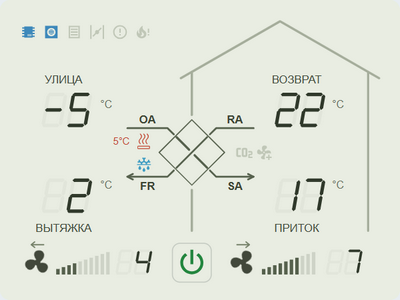
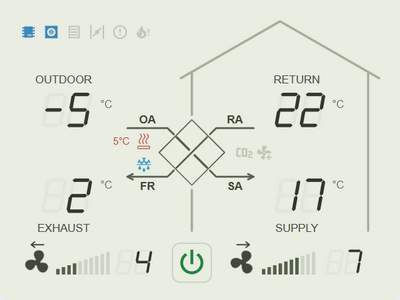
Add dark theme

diff --git a/dist/ha-royal-clima-card.js b/dist/ha-royal-clima-card.js
@@ -157,6 +157,7 @@ class RoyalClimaCard extends HTMLElement {
       .speed-action{cursor:pointer}.speed-action[aria-disabled="true"]{cursor:default}.speed-action rect{pointer-events:all}.speed-action:focus-visible{outline:none}.speed-action:focus-visible rect{stroke:#56614d;stroke-width:2}
       .speed-action circle{display:none;animation:spin 1s linear infinite}.speed-action.pending circle{display:block}
       dialog{border:1px solid var(--divider-color,#ccd3d7);border-radius:16px;padding:24px;max-width:calc(100vw - 32px);width:380px;box-sizing:border-box;background:var(--card-background-color,#fff);color:var(--primary-text-color,#222);font:16px Arial,sans-serif}dialog::backdrop{background:#0006}dialog h3{font-size:20px;margin:0 0 18px;font-weight:500}.speed-choices{display:grid;grid-template-columns:repeat(6,minmax(0,1fr));gap:6px}.speed-choices button{min-height:36px;font-size:14px;padding:0 2px}.speed-choices [data-step-choice="6"]{grid-column:2}.speed-choices [data-step-choice="0"]{font-size:12px}dialog button{font:inherit;min-height:44px;border:1px solid var(--divider-color,#ccd3d7);border-radius:8px;background:var(--secondary-background-color,#f2f5f5);color:inherit;cursor:pointer}dialog button[aria-pressed="true"]{background:var(--primary-color,#0385bd);color:white}dialog button:disabled{opacity:.35;cursor:default}[data-speed-close]{display:block;margin:18px 0 0 auto;padding:0 14px}
+ha-card.dark{background:#19212c}ha-card.dark.compact:not(.transparent){background:#24362a}ha-card.dark.transparent{background:transparent}ha-card.dark .caption,ha-card.dark.airflow .caption{fill:#d5ded8}ha-card.dark .flow-port-label{fill:#9baebf}ha-card.dark [fill="#30392b"]{fill:#d5dfcb}ha-card.dark [stroke="#30392b"]{stroke:#d5dfcb}ha-card.dark [stop-color="#30392b"]{stop-color:#d5dfcb}ha-card.dark [fill="#444e3c"]{fill:#c6d1c2}ha-card.dark [stroke="#444e3c"]{stroke:#c6d1c2}ha-card.dark [stop-color="#444e3c"]{stop-color:#c6d1c2}ha-card.dark [fill="#66705d"]{fill:#9aab94}ha-card.dark [stroke="#66705d"]{stroke:#9aab94}ha-card.dark [stop-color="#66705d"]{stop-color:#9aab94}ha-card.dark [fill="#77836b"]{fill:#b0bdb0}ha-card.dark [stroke="#77836b"]{stroke:#b0bdb0}ha-card.dark [stop-color="#77836b"]{stop-color:#b0bdb0}ha-card.dark [fill="#a6ae9c"]{fill:#697d6c}ha-card.dark [stroke="#a6ae9c"]{stroke:#697d6c}ha-card.dark [stop-color="#a6ae9c"]{stop-color:#697d6c}ha-card.dark [fill="#56614d"]{fill:#b0c3a5}ha-card.dark [stroke="#56614d"]{stroke:#b0c3a5}ha-card.dark [stop-color="#56614d"]{stop-color:#b0c3a5}ha-card.dark [fill="#3b4533"]{fill:#becdb4}ha-card.dark [stroke="#3b4533"]{stroke:#becdb4}ha-card.dark [stop-color="#3b4533"]{stop-color:#becdb4}ha-card.dark [fill="#42483b"]{fill:#bfccbc}ha-card.dark [stroke="#42483b"]{stroke:#bfccbc}ha-card.dark [stop-color="#42483b"]{stop-color:#bfccbc}ha-card.dark [fill="#c2c8bc"]{fill:#77867b}ha-card.dark [stroke="#c2c8bc"]{stroke:#77867b}ha-card.dark [stop-color="#c2c8bc"]{stop-color:#77867b}ha-card.dark [fill="#34465b"]{fill:#d1dfed}ha-card.dark [stroke="#34465b"]{stroke:#d1dfed}ha-card.dark [stop-color="#34465b"]{stop-color:#d1dfed}ha-card.dark [fill="#52677a"]{fill:#9ab0c4}ha-card.dark [stroke="#52677a"]{stroke:#9ab0c4}ha-card.dark [stop-color="#52677a"]{stop-color:#9ab0c4}ha-card.dark [fill="#edf2f7"]{fill:#2b3849}ha-card.dark [stroke="#edf2f7"]{stroke:#2b3849}ha-card.dark [stop-color="#edf2f7"]{stop-color:#2b3849}ha-card.dark [fill="#dce4ed"]{fill:#46566a}ha-card.dark [stroke="#dce4ed"]{stroke:#46566a}ha-card.dark [stop-color="#dce4ed"]{stop-color:#46566a}ha-card.dark [fill="#c8d0d7"]{fill:#556372}ha-card.dark [stroke="#c8d0d7"]{stroke:#556372}ha-card.dark [stop-color="#c8d0d7"]{stop-color:#556372}ha-card.dark [fill="#aeb9c2"]{fill:#738190}ha-card.dark [stroke="#aeb9c2"]{stroke:#738190}ha-card.dark [stop-color="#aeb9c2"]{stop-color:#738190}ha-card.dark [fill="#e5e8ea"]{fill:#26303d}ha-card.dark [stroke="#e5e8ea"]{stroke:#26303d}ha-card.dark [stop-color="#e5e8ea"]{stop-color:#26303d}ha-card.dark [fill="#596561"]{fill:#b2c2b6}ha-card.dark [stroke="#596561"]{stroke:#b2c2b6}ha-card.dark [stop-color="#596561"]{stop-color:#b2c2b6}ha-card.dark [fill="#c5cbc2"]{fill:#526054}ha-card.dark [stroke="#c5cbc2"]{stroke:#526054}ha-card.dark [stop-color="#c5cbc2"]{stop-color:#526054}ha-card.dark [fill="#f8fbfe"]{fill:#35475a}ha-card.dark [stroke="#f8fbfe"]{stroke:#35475a}ha-card.dark [stop-color="#f8fbfe"]{stop-color:#35475a}ha-card.dark [fill="#dce6f0"]{fill:#253443}ha-card.dark [stroke="#dce6f0"]{stroke:#253443}ha-card.dark [stop-color="#dce6f0"]{stop-color:#253443}ha-card.dark [fill="#b0c1d1"]{fill:#6b8197}ha-card.dark [stroke="#b0c1d1"]{stroke:#6b8197}ha-card.dark [stop-color="#b0c1d1"]{stop-color:#6b8197}ha-card.dark [fill="#8da2b8"]{fill:#50677d}ha-card.dark [stroke="#8da2b8"]{stroke:#50677d}ha-card.dark [stop-color="#8da2b8"]{stop-color:#50677d}ha-card.dark [fill="#d3dde7"]{fill:#7e94a9}ha-card.dark [stroke="#d3dde7"]{stroke:#7e94a9}ha-card.dark [stop-color="#d3dde7"]{stop-color:#7e94a9}ha-card.dark [fill="#cedae7"]{fill:#6d8298}ha-card.dark [stroke="#cedae7"]{stroke:#6d8298}ha-card.dark [stop-color="#cedae7"]{stop-color:#6d8298}ha-card.dark [fill="#8da0b3"]{fill:#71899e}ha-card.dark [stroke="#8da0b3"]{stroke:#71899e}ha-card.dark [stop-color="#8da0b3"]{stop-color:#71899e}ha-card.dark [data-indicator][opacity=".35"],ha-card.dark .preheater[opacity=".35"]{opacity:.55}ha-card.dark .fan-background{fill:#273442}ha-card.dark [data-power-icon][fill="#23863f"]{fill:#51dc7d}ha-card.dark [data-power-icon][fill="#111111"]{fill:#c5d2ca}ha-card.dark .power-action rect{stroke:#58685c}ha-card.dark .segments g[opacity=".04"]{opacity:.065}ha-card.dark.airflow [data-fan]{opacity:.56}ha-card.dark.airflow [data-speed-pixels] rect[opacity=".38"]{fill:#c4d0d8;opacity:.66}ha-card.dark.airflow [data-speed-pixels] rect[opacity=".65"]{fill:#8b9ba8;opacity:.48}ha-card.dark.airflow rect[fill="url(#case)"]{fill-opacity:.48}ha-card.dark.airflow rect[fill="url(#cover)"]{opacity:.4}ha-card.dark.airflow [data-display="outdoor_temperature"] text{fill:#42c5e9}ha-card.dark.airflow [data-display="return_temperature"] text{fill:#ed82b6}ha-card.dark.airflow [data-display="exhaust_temperature"] text{fill:#79b6ed}ha-card.dark.airflow [data-display="supply_temperature"] text{fill:#ffad72}ha-card.dark .command-notice rect{fill:#273442;stroke:#627080}ha-card.dark .command-message{fill:#ff9b8a}
     </style><ha-card>${PANEL.replace('</svg>', '</g></svg>').replace('</defs>', '</defs><g class="panel-art">').replace('<svg ', '<svg class="panel" role="img" ').replace('</svg>', AIRFLOW + overlay + '</svg>')}</ha-card><dialog aria-labelledby="speed-dialog-title"><h3 id="speed-dialog-title"></h3><div class="speed-choices">${Array.from({length:11},(_,i)=>`<button type="button" data-step-choice="${i}">${i}</button>`).join("")}</div><button type="button" data-speed-close></button></dialog>`;
     for(const fan of this.shadowRoot.querySelectorAll('[data-fan]')) {
       const background=document.createElementNS("http://www.w3.org/2000/svg","circle");background.classList.add("fan-background");background.setAttribute("r",28);background.setAttribute("fill","#f8fafc");background.setAttribute("fill-opacity",".65");fan.prepend(background);
@@ -281,6 +282,7 @@ class RoyalClimaCard extends HTMLElement {
       ids[key] = value;
     }
     if (config.view !== undefined && !["control", "airflow"].includes(config.view)) throw new Error("view must be control or airflow");
+    if(config.theme !== undefined && !["auto","light","dark"].includes(config.theme)) throw new Error("theme must be auto, light or dark");
     if (config.language !== undefined && typeof config.language !== "string") throw new Error("language must be a string");
     config = { ...config };
     for (const key of ["transparent", "flow_colormap", "sensor_boost_co2"]) if (config[key] !== undefined) config[key] = configBoolean(config[key], key);
@@ -471,11 +473,17 @@ class RoyalClimaCard extends HTMLElement {
     const previous=this._hass;
     this._hass=value;
     if (!this._ids || !previous || !value ||
-        previous.locale?.language !== value.locale?.language || previous.language !== value.language ||
+        this._lastDarkMode !== value.themes?.darkMode || previous.locale?.language !== value.locale?.language || previous.language !== value.language ||
         previous.callService !== value.callService ||
         Object.values(this._ids).some(id => id && previous.states?.[id] !== value.states?.[id])) this._render();
   }
-  disconnectedCallback() { this._clearPending(); this._clearSpeeds(); this._clearErrors(); this._render(); }
+  connectedCallback() {
+    this._colorScheme ||= window.matchMedia("(prefers-color-scheme: dark)");
+    this._themeListener ||= () => this._render();
+    this._colorScheme.addEventListener("change",this._themeListener);
+    this._render();
+  }
+  disconnectedCallback() { this._colorScheme?.removeEventListener("change",this._themeListener); this._clearPending(); this._clearSpeeds(); this._clearErrors(); this._render(); }
   _clearErrors() {
     clearTimeout(this._errorTimer); this._errorTimer = null; this._errorKey = null;
     this._powerError = null; this._speedErrors = {};
@@ -567,16 +575,21 @@ class RoyalClimaCard extends HTMLElement {
   _render() {
     if (!this._ids || !this._hass) return;
     const systemLanguage = String(this._hass.locale?.language || this._hass.language || "en").toLowerCase();
-    const ru = this._config.language === undefined
+    const ru = this._config.language === undefined || this._config.language.trim().toLowerCase() === "auto"
       ? systemLanguage.startsWith("ru")
       : this._config.language.trim().toLowerCase() === "ru";
+    this._lastDarkMode=this._hass.themes?.darkMode;
+    const theme=this._config.theme ?? "auto";
+    const dark=theme === "dark" || (theme === "auto" && (this._lastDarkMode ?? this._colorScheme?.matches ?? false));
+    this._node('ha-card').classList.toggle('dark',dark);
     const raw = key => this._hass.states?.[this._ids[key]]?.state;
     const known = key => raw(key) != null && !["unknown", "unavailable", ""].includes(raw(key));
     const on = key => raw(key) === "on";
     const numberCache = new Map();
     const number = key => { if(!numberCache.has(key)) numberCache.set(key,stateNumber(raw(key)));return numberCache.get(key); };
     const numeric = key => Number.isFinite(number(key));
-    const extra = (key, russian, english, unit="") => (unit ? numeric(key) : known(key) && ["string","number"].includes(typeof raw(key))) ? `${ru?russian:english}: ${raw(key)}${unit ? " "+unit : ""}` : null;
+    const rounded = value => Number.isFinite(value) ? Number(value.toFixed(1)) : value;
+    const extra = (key, russian, english, unit="") => (unit ? numeric(key) : known(key) && ["string","number"].includes(typeof raw(key))) ? `${ru?russian:english}: ${numeric(key) ? rounded(number(key)) : raw(key)}${unit ? " "+unit : ""}` : null;
     const duration = seconds => { const n=Math.max(0,Math.floor(seconds));return `${Math.floor(n/86400)}${ru?" д":"d"} ${Math.floor(n%86400/3600)}${ru?" ч":"h"} ${Math.floor(n%3600/60)}${ru?" мин":"m"}`; };
 
     const connected = on("esp_connection") && on("vent_system_online");
@@ -585,6 +598,7 @@ class RoyalClimaCard extends HTMLElement {
       if (connected && known(role) && number(role) === pending.expected) { clearTimeout(pending.timer); delete this._speedPending[role]; }
     }
     const flowing = connected && on("power");
+    if(this._config.view === 'airflow') for(const label of this._nodesFor('.flow-port-label')) label.style.display=flowing?'':'none';
     const bypassActive=connected && on("bypass");
     const diamondColor=connected?"#56614d":"#c2c8bc";
     const diamondHint=bypassActive?(ru?"Байпас включён":"Bypass is on"):(ru?"Теплообменник":"Heat exchanger");
@@ -693,7 +707,7 @@ class RoyalClimaCard extends HTMLElement {
       setAttributeIfChanged(el,"aria-disabled", String(!exists));
       setAttributeIfChanged(el,"tabindex", exists && !hidden ? "0" : "-1");
       setAttributeIfChanged(el,"aria-label", label);
-      el.querySelector("title").textContent = key === "filter_usage" ? `${label}: ${filterValid ? `${usage} %` : ru ? "Нет данных" : "No data"}` : `${label}: ${known(key) ? (ru && ["on", "off"].includes(raw(key)) ? (on(key) ? "Включено" : "Выключено") : raw(key)) : ru ? "Нет данных" : "No data"}`;
+      el.querySelector("title").textContent = key === "filter_usage" ? `${label}: ${filterValid ? `${rounded(usage)} %` : ru ? "Нет данных" : "No data"}` : `${label}: ${known(key) ? (ru && ["on", "off"].includes(raw(key)) ? (on(key) ? "Включено" : "Выключено") : raw(key)) : ru ? "Нет данных" : "No data"}`;
     }
     for(const [key] of INDICATORS) {
       const el=this._node(`[data-indicator="${key}"]`), title=el.querySelector("title"), lines=[title.textContent];
@@ -726,6 +740,17 @@ class RoyalClimaCard extends HTMLElement {
       fanTitle.textContent += "\n"+directionHint;
       setAttributeIfChanged(fan,'aria-label',fanTitle.textContent);setAttributeIfChanged(fan,'tabindex',known(role)?'0':'-1');
       setAttributeIfChanged(fan,"opacity", running ? "1" : ".3");
+      if(this._config.view !== "airflow") {
+        const arrow=this._node(`[data-fan-direction="${role}"]`);
+        setAttributeIfChanged(arrow,"stroke",COLORS.fan);setAttributeIfChanged(arrow,"opacity",running?"1":".3");
+      } else {
+        const enabled=connected && on("power");
+        setAttributeIfChanged(this._node(`[data-display="${role}"]`),"opacity",enabled?"1":".4");
+        const backgrounds=this._nodesFor('.airflow-art .scene > g > g[fill="#edf2f7"] rect');
+        const background=backgrounds[role === "exhaust_speed"?0:2];
+        if(background) setAttributeIfChanged(background,"fill",enabled?"#edf2f7":"#e5e8ea");
+      }
+
       fan.querySelector(".rotor").style.animationPlayState = running ? "running" : "paused";
       fan.querySelector(".rotor").style.animationDuration = `${(5 - (Math.max(1, Math.min(10, Number.isFinite(speed) ? speed : 1)) - 1) * (4.3 / 9)).toFixed(2)}s`;
       if(this._config.view === "airflow") for(const [i,pixel] of [...this._node(`[data-speed-pixels="${role}"]`).children].entries()) { setAttributeIfChanged(pixel,"fill",running && speed>=i+1?COLORS.fan:"#aeb9c2");setAttributeIfChanged(pixel,"opacity",running && speed>=i+1?".38":".65"); }

diff --git a/README.ru.md b/README.ru.md
@@ -5,8 +5,10 @@
 Карточка Home Assistant для приточно-вытяжной установки Royal Clima SOFFIO Primo: температуры, состояния, управление питанием и ступенями вентиляторов. Два вида — пульт и схема потоков. Прошивка ESPHome для ESP32 и подключение оборудования: [ESPHome-RoyalClima](https://github.com/alidonet/ESPHome-RoyalClima).
 
 ![Пульт управления](images/control_panel.png)
+![Пульт управления](images/control_panel_dark.png)
 
 ![Схема потоков](images/flows_panel.png)
+![Airflow diagram](images/flows_panel_dark.png)
 
 ## Установка
 
@@ -27,7 +29,7 @@ type: custom:royal-clima-card
 
 ## Полная конфигурация
 
-Ниже — все параметры со значениями по умолчанию и явным выбором английского языка (`language: en`). Без `language` язык выбирается по профилю HA. Обычно достаточно минимального YAML или изменения префиксов. Явные `entities` имеют приоритет над префиксами: если копируете весь пример, меняйте и соответствующие entity_id.
+Ниже — все параметры со значениями по умолчанию и явным выбором английского языка (`language: auto`). Без `language` язык выбирается по профилю HA. Обычно достаточно минимального YAML или изменения префиксов. Явные `entities` имеют приоритет над префиксами: если копируете весь пример, меняйте и соответствующие entity_id.
 
 ```yaml
 type: custom:royal-clima-card
@@ -38,7 +40,7 @@ transparent: false
 flow_colormap: false
 sensor_boost_co2: true
 
-language: en
+language: auto
 
 show_icons:
   esp_connection: true
@@ -92,7 +94,8 @@ entities:
 | `type` | Обязательно: `custom:royal-clima-card`. |
 | `view` | `control` — пульт, `airflow` — схема потоков. |
 | `prefix`, `esp_prefix` | Префиксы сущностей ПВУ и ESP32: `ventilation_system`, `royal_clima`. Без домена; допустимы строчные латинские буквы, цифры и подчёркивания. |
-| `language` | Не задан: русский для профиля HA с языком `ru` / `ru-*`, иначе английский. `ru` и `en` принудительно задают язык карточки; любая другая явно заданная строка, включая `auto`, выбирает английский. Прошивку и имена сущностей не меняет. |
+| `theme` | `auto` по умолчанию — тема HA; `light` / `dark` — явный выбор. При отсутствии признака темы HA используется настройка системы. |
+| `language` | `auto` по умолчанию — язык HA; `ru` / `en` — явный выбор. Другие значения выбирают английский. |
 | `transparent` | `false`; `true` убирает фон. Цвета текста и значков автоматически под тему не адаптируются. |
 | `flow_colormap` | `false` — обычные цвета потоков; `true` — температурная палитра. |
 | `sensor_boost_co2` | `true` — значок CO₂; `false` — значок влажности. Меняет оформление и подсказку, не определяет тип датчика. |
@@ -126,5 +129,4 @@ entities:
 - Нажатие на температуру, индикатор или вентилятор открывает сведения о сущности и историю. В пульте цифры и шкала скорости открывают выбор ступени; в схеме потоков — нижние плашки. Изменение скорости доступно при включённой ПВУ и наличии связи; команды ожидают подтверждения до 20 секунд.
 - Значок фильтра: менее 80 % — зелёный, от 80 до 100 % — оранжевый, от 100 % — красный. При отсутствии данных цвет не обозначает исправное состояние.
 - Температурная палитра охватывает −30…+40 °C. За пределами диапазона ограничивается только цвет. При недоступной температуре на конце потока используются обычные цвета.
-
-![Температурная палитра потоков](images/colormap.png)
+  ![Температурная палитра потоков](images/colormap.png)

diff --git a/README.md b/README.md
@@ -5,8 +5,10 @@
 A Home Assistant card for Royal Clima SOFFIO Primo ventilation units: temperatures, status indicators, power control and fan step selection. Two views: a control panel and an airflow diagram. ESPHome firmware for ESP32 and hardware wiring instructions: [ESPHome-RoyalClima](https://github.com/alidonet/ESPHome-RoyalClima).
 
 ![Control panel](images/control_panel.png)
+![Control panel](images/control_panel_dark.png)
 
 ![Airflow diagram](images/flows_panel.png)
+![Airflow diagram](images/flows_panel_dark.png)
 
 ## Installation
 
@@ -27,7 +29,7 @@ type: custom:royal-clima-card
 
 ## Full configuration
 
-All settings are shown below with their defaults and English explicitly selected (`language: en`). Without `language`, the card follows the HA profile language. Usually the minimal YAML or a change of prefixes is enough. Explicit `entities` override prefixes: if you copy the full example, update the corresponding entity IDs too.
+All settings are shown below with their defaults and English explicitly selected (`language: auto`). Without `language`, the card follows the HA profile language. Usually the minimal YAML or a change of prefixes is enough. Explicit `entities` override prefixes: if you copy the full example, update the corresponding entity IDs too.
 
 ```yaml
 type: custom:royal-clima-card
@@ -38,7 +40,7 @@ transparent: false
 flow_colormap: false
 sensor_boost_co2: true
 
-language: en
+language: auto
 
 show_icons:
   esp_connection: true
@@ -92,7 +94,8 @@ entities:
 | `type` | Required: `custom:royal-clima-card`. |
 | `view` | `control` — control panel; `airflow` — airflow diagram. |
 | `prefix`, `esp_prefix` | Ventilation and ESP32 entity prefixes: `ventilation_system`, `royal_clima`. Omit the domain; lowercase ASCII letters, digits and underscores are accepted. |
-| `language` | Unset: Russian for an HA profile language of `ru` / `ru-*`, otherwise English. `ru` and `en` force the card language; any other explicit string, including `auto`, selects English. Does not change firmware messages or entity names. |
+| `theme` | `auto` by default follows HA; `light` / `dark` force a theme. Falls back to the system preference when HA theme information is unavailable. |
+| `language` | `auto` by default follows HA; `ru` / `en` force a language. Other values select English. |
 | `transparent` | `false`; `true` removes the background. Text and icon colors do not automatically adapt to the theme. |
 | `flow_colormap` | `false` — standard flow colors; `true` — temperature palette. |
 | `sensor_boost_co2` | `true` — CO₂ icon; `false` — humidity icon. Changes the icon and tooltip; does not detect the sensor type. |
@@ -126,5 +129,4 @@ If you use custom control wrappers, set them in `entities.power_control`, `entit
 - Tapping a temperature, indicator or fan opens entity details and history. In the control panel, speed digits and bars open step selection; in the airflow diagram, use the bottom control tiles. Speed changes require the unit to be powered on and connected; commands wait up to 20 seconds for confirmation.
 - Filter icon: below 80% — green; 80% to below 100% — orange; 100% and above — red. With no data, the color does not indicate a healthy state.
 - The temperature palette covers −30…+40 °C. Outside this range, only the color is clamped. If an endpoint temperature is unavailable, the flow uses its standard colors.
-
-![Airflow temperature palette](images/colormap.png)
+  ![Airflow temperature palette](images/colormap.png)
